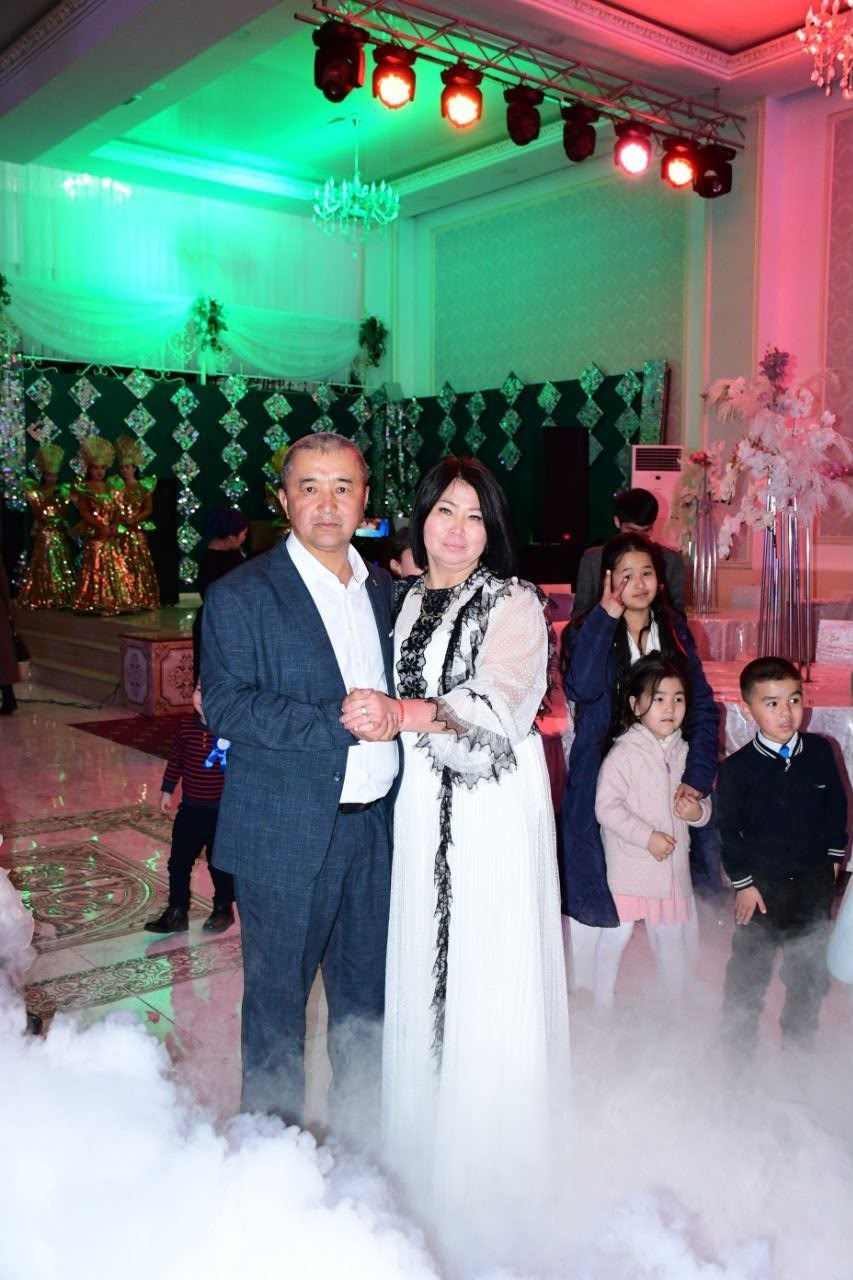
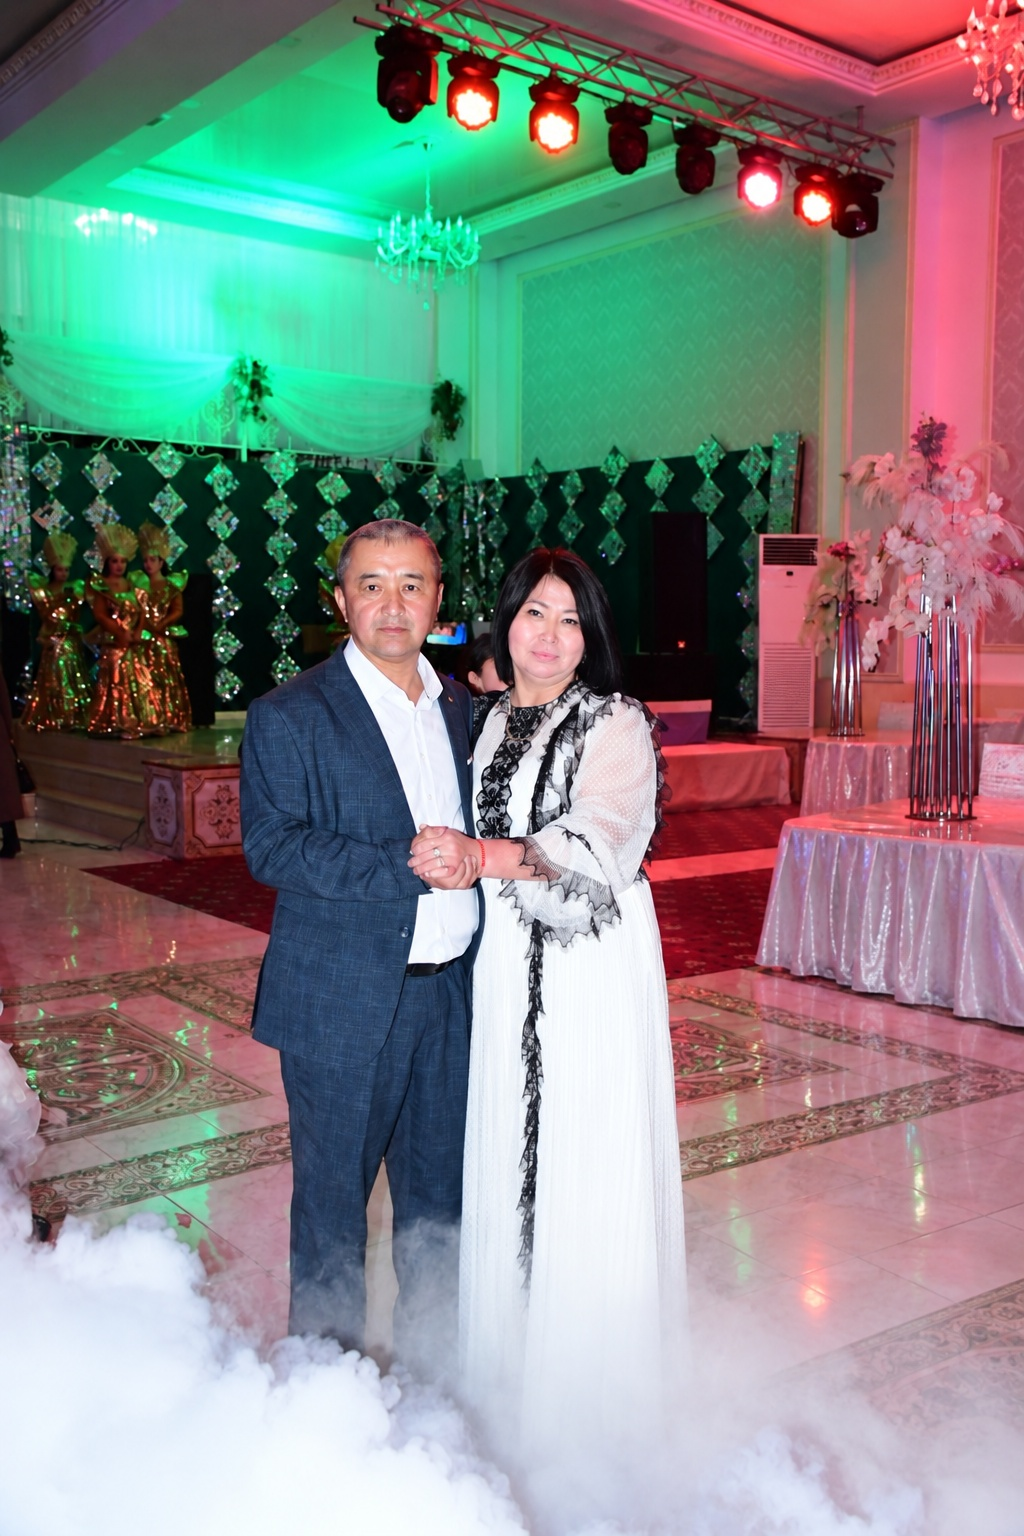
feat: updated cleaned photo, large whatsapp og preview card, and playful kele-almaymyn modal

diff --git a/index.html b/index.html
@@ -13,24 +13,24 @@
     
         
     <meta name="description" content="Мұрат пен Эльмираның 50 жас мерейтойына арналған ақ дастарханымыздың қадірлі қонағы болуға шын жүректен шақырамыз! 10 қазан 2026 жыл, Сарыағаш холл.">
-<meta name="keywords" content="shaqyru, шақыру, онлайн шақыру, мерейтой, 50 жас, Мұрат Эльмира">
-<meta property="og:url" content="https://shaqyru.kz/450">
-<meta property="og:image" content="https://shaqyru.kz/images/og-images/450.webp">
-<meta property="twitter:image" content="https://shaqyru.kz/images/og-images/450.webp">
-<meta property="og:type" content="website">
-<meta property="og:title" content="Мұрат – Эльмира | 50 ЖАС – МЕРЕЙТОЙ!">
-<meta property="og:description" content="Сілтемені басып, тойға шақыруды ашыңыз">
-<meta property="og:site_name" content="Shaqyru.kz">
-<meta property="og:image:width" content="512">
-<meta property="og:image:height" content="512">
-<meta property="og:locale" content="kk_KZ">
-<meta name="twitter:card" content="summary_large_image">
-<meta name="csrf-param" content="_csrf-frontend">
-<meta name="csrf-token" content="2XNhOHzKQLFeP5ROXqSlAJQd2Uzf4nW0el3g4peLYkOjQ1B7E_gF9QdqoD0_kv9X-0eTf7LQDP5LP6XW5dEydw==">
-
-<link href="https://shaqyru.kz/s/450" rel="canonical">
-<link href="https://shaqyru.kz/images/og-images/450.webp" rel="apple-touch-icon-precomposed">
-<link href="https://shaqyru.kz/images/og-images/450.webp" rel="image_src">
+    <meta name="keywords" content="shaqyru, шақыру, онлайн шақыру, мерейтой, 50 жас, Мұрат Эльмира">
+    <meta property="og:url" content="https://shaqyru-clone.vercel.app">
+    <meta property="og:type" content="website">
+    <meta property="og:title" content="Мұрат – Эльмира | 50 ЖАС – МЕРЕЙТОЙ!">
+    <meta property="og:description" content="Сіздерді ардақты әке-шешеміздің 50 жас мерейтойына арналған ақ дастарханымыздың қадірлі қонағы болуға шын жүректен шақырамыз! 10 қазан 2026 жыл, Сарыағаш холл.">
+    <meta property="og:image" content="https://shaqyru-clone.vercel.app/images/og-images/murat_elmira_og.jpg">
+    <meta property="og:image:secure_url" content="https://shaqyru-clone.vercel.app/images/og-images/murat_elmira_og.jpg">
+    <meta property="og:image:type" content="image/jpeg">
+    <meta property="og:image:width" content="1200">
+    <meta property="og:image:height" content="630">
+    <meta property="og:site_name" content="Мұрат – Эльмира Тойға шақыру">
+    <meta property="og:locale" content="kk_KZ">
+    <meta name="twitter:card" content="summary_large_image">
+    <meta name="twitter:title" content="Мұрат – Эльмира | 50 ЖАС – МЕРЕЙТОЙ!">
+    <meta name="twitter:description" content="Сіздерді ардақты әке-шешеміздің 50 жас мерейтойына арналған ақ дастарханымыздың қадірлі қонағы болуға шын жүректен шақырамыз! 10 қазан 2026 жыл, Сарыағаш холл.">
+    <meta name="twitter:image" content="https://shaqyru-clone.vercel.app/images/og-images/murat_elmira_og.jpg">
+    <link rel="canonical" href="https://shaqyru-clone.vercel.app">
+    <link rel="image_src" href="https://shaqyru-clone.vercel.app/images/og-images/murat_elmira_og.jpg">
 <link href="css/default/shablon1.css" rel="stylesheet">
 <link href="assets/cc23a5c6/css/bootstrap.css" rel="stylesheet"></head>
 <body class="d-flex flex-column h-100">
@@ -211,6 +211,27 @@
   </div>
 </div>
 
+<div class="modal fade" id="keleAlmaymynModal" tabindex="-1" role="dialog" aria-hidden="true">
+  <div class="modal-dialog modal-dialog-centered" role="document" style="max-width: 360px; margin: 1.5rem auto;">
+    <div class="modal-content" style="border-radius: 20px; border: 2px solid #C29F62; box-shadow: 0 15px 40px rgba(0,0,0,0.2); text-align: center; padding: 25px 20px; background: #fff;">
+      <div style="font-size: 46px; line-height: 1; margin-bottom: 12px;">🥺</div>
+      <h3 style="font-family: 'Forum', serif; color: #413522; font-size: 24px; margin-bottom: 10px; font-weight: bold;">
+        Қап, өкінішті-ай...
+      </h3>
+      <p style="font-family: 'Gilroy-Regular', sans-serif; color: #555; font-size: 15px; line-height: 1.5; margin-bottom: 22px;">
+        Сізсіз тойымыздың сәні келмес!<br>Мұрат пен Эльмираның 50 жас мерейтойында сізді асыға күтеміз!
+      </p>
+      <div style="display: flex; flex-direction: column; gap: 10px;">
+        <button id="btnBaribirKelemin" type="button" class="zayotrp" style="margin: 0; width: 100%; font-size: 17px; padding: 12px; cursor: pointer; border-radius: 25px;">
+          Бәрібір келемін! 🎉
+        </button>
+        <button id="btnZharaidy" type="button" style="background: transparent; border: 1px solid #ccc; color: #777; font-size: 14px; padding: 10px; border-radius: 25px; cursor: pointer;">
+          Жарайды (Ок)
+        </button>
+      </div>
+    </div>
+  </div>
+</div>
 
 <div class="modal fade" id="tilekengiz" tabindex="-1" role="dialog" aria-labelledby="exampleModalLabel" aria-hidden="true">
   <div class="modal-dialog" role="document">

diff --git a/js/site2.js b/js/site2.js
@@ -60,8 +60,43 @@ if (savedAnswer) {
 }
 
 var konakid = $("input[name='konakid']").val() || localStorage.getItem('shaqyru_konak_id');
+window.keleAlmaymynConfirmed = false;
+
+$("label[for='contactChoice3'], #contactChoice3").on('click', function(e) {
+    e.preventDefault();
+    $('#keleAlmaymynModal').modal('show');
+});
+
+$("#btnBaribirKelemin").on('click', function() {
+    window.keleAlmaymynConfirmed = false;
+    $("#contactChoice1").prop('checked', true);
+    $('#keleAlmaymynModal').modal('hide');
+    var storedName = localStorage.getItem('shaqyru_guest_name');
+    if(!storedName && (konakid == 0 || konakid === '' || konakid === null || konakid === undefined)) {
+        $('#nameengiz').modal('show');
+    } else {
+        otpravka($("#form-1"));
+    }
+});
+
+$("#btnZharaidy").on('click', function() {
+    window.keleAlmaymynConfirmed = true;
+    $("#contactChoice3").prop('checked', true);
+    $('#keleAlmaymynModal').modal('hide');
+    var storedName = localStorage.getItem('shaqyru_guest_name');
+    if(!storedName && (konakid == 0 || konakid === '' || konakid === null || konakid === undefined)) {
+        $('#nameengiz').modal('show');
+    } else {
+        otpravka($("#form-1"));
+    }
+});
 
 $(".zayotrp").click(function() {
+    var zhauap = $("input[name='zhauap']:checked").val();
+    if (zhauap == '1' && !window.keleAlmaymynConfirmed) {
+        $('#keleAlmaymynModal').modal('show');
+        return;
+    }
     var storedName = localStorage.getItem('shaqyru_guest_name');
     if(!storedName && (konakid == 0 || konakid === '' || konakid === null || konakid === undefined)) 
         $('#nameengiz').modal('show');
@@ -78,6 +113,7 @@ $('.play-game-btn').click(function () {
 });
 
 $(".oprosozgertu").click(function() {
+    window.keleAlmaymynConfirmed = false;
     $('.otvetnaopros').hide();
     $('.opros').show();
     konakid = $("input[name='konakid']").val() || localStorage.getItem('shaqyru_konak_id');
